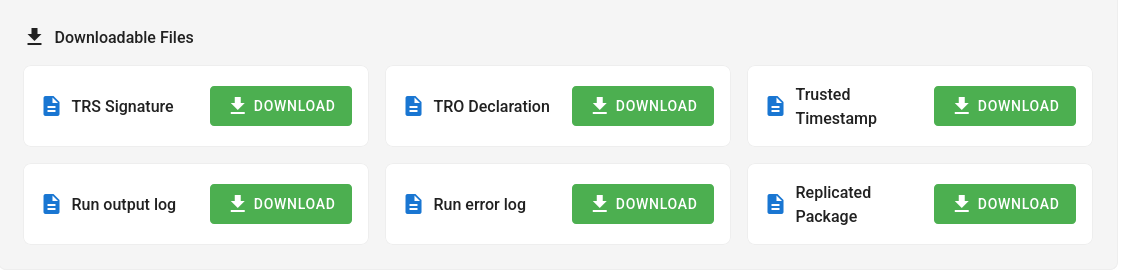
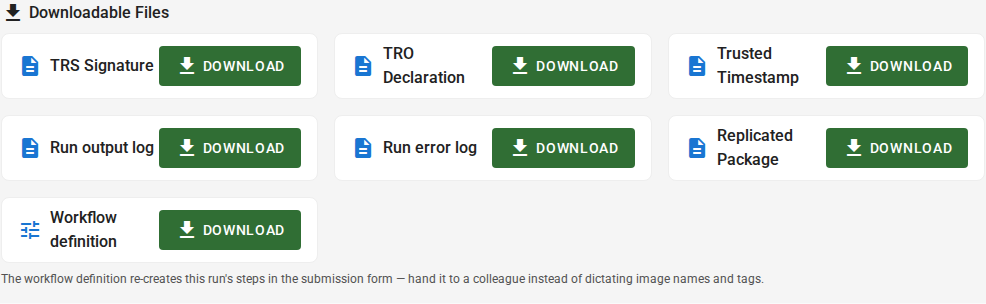
Updates due to recent changes. Generate images automatically

diff --git a/docs/faq.md b/docs/faq.md
@@ -58,9 +58,55 @@ You should inspect the `Run output log` and `Run error log` files to see what we
 
 You might want to consult the [debugging hints](debugging.md) for tips.
 
+## My job used to work, and now it runs out of memory
+
+SIVACOR now runs every submission on a machine created for that submission alone, with
+**8 cores and 30 GiB of RAM** (see [System Description](system.md)). Earlier in the pilot,
+submissions ran on a larger shared server, so an analysis that only just fitted before may
+now exceed the available memory.
+
+If your analysis genuinely needs more than this, please contact us — do not spend a long time
+trying to shrink it first.
+
+## My job failed saying it ran out of disk space
+
+The error looks like this:
+
+> Ran out of disk space: 4.7 GiB free on the workspace filesystem, below the 5.0 GiB floor.
+
+The machine running your submission has 60 GB of disk, and that space is shared between your
+replication package (including everything your code writes) and the software image it runs
+in. Large images consume a substantial part of it — the MATLAB / Dynare image alone is about
+15 GB.
+
+Things that help:
+
+- exclude large intermediate or raw data files with
+  [`.sivacorignore`](step0-prepare.md#excluding-files-from-final-package) — note this affects
+  the final package, not what your code writes while running
+- delete intermediate files in your own code once you no longer need them
+- check that your code is not writing very large log or temporary files unintentionally
+
+If your analysis legitimately needs more room, please contact us.
+
+## My job failed with "Submission abandoned"
+
+The message looks like one of these:
+
+> Submission abandoned: no sign of life for 0:31:07; the worker running it is presumed lost.
+
+> Submission abandoned: exceeded the maximum runtime of 7 days, 0:00:00; started at ...
+
+The first means the machine running your submission was lost. That is an infrastructure
+problem rather than a problem with your code — just submit the package again, and contact us
+if it keeps happening.
+
+The second means your run hit the 7 day limit. If your analysis genuinely needs longer,
+contact us before resubmitting.
+
 ## What are all these output files?
 
-SIVACOR produces six output files:
+SIVACOR produces six output files, plus a workflow definition:
 
 ![SIVACOR output files](images/sivacor-screenshot.png)
 
@@ -75,6 +121,11 @@ A few [TRACE-related](https://transparency-certified.github.io/) files are produ
 - A **trusted timestamp** file. This file contains a timestamp that is certified by a trusted time server, used in the signing process.
 
 These three files are also included in the `tro` folder inside the replication package.
+
+- A **workflow definition**, a small YAML file recording the software, versions and main
+  files this run used. It is not part of the signed package, and is not evidence of
+  anything — it is a convenience, so the same configuration can be re-created later by
+  importing it on the submission page. It never contains any secrets you supplied.
 
 ## What can I do with the TRO files? How can I check the package?
 
@@ -289,3 +340,13 @@ SIVACOR only temporarily retains any files that you upload. You can delete files
 SIVACOR runs on [Jetstream 2](https://jetstream-cloud.org/). If Jetstream 2 is down for maintenance, SIVACOR will be down as well. You can check the [Jetstream 2 status page](https://jetstream.status.io/) for any ongoing maintenance or issues.
 
 If JetStream 2 is operational, but SIVACOR appears down, please contact us via the button at the top of this page.
+
+## My submission has been "Waiting for a worker" for a long time
+
+SIVACOR starts a machine for each submission, which normally takes two to three minutes,
+followed by the download of the software image. If other users' submissions are occupying
+the machines available to the pilot, yours waits until one frees up.
+
+A wait of several minutes is normal, especially for MATLAB. If a submission stays in this
+state for much longer than that, please contact us and include the Job ID shown on the
+page — there is a copy button next to it.

diff --git a/docs/step3-monitoring.md b/docs/step3-monitoring.md
@@ -10,4 +10,49 @@ Every time you come back to the page, you will see the status of your job.
 
 ![Job running](images/sivacor-running-job.png)
 
-You will also be notified by email when your job starts, and when it ends. 
+You will also be notified by email when your job starts, and when it ends.
+
+## Waiting for a machine
+
+SIVACOR starts a machine for your submission alone, so there is normally a short wait
+before anything appears to happen. While that is going on, you will see a
+**Waiting for a worker** message.
+
+![Waiting for a worker](images/sivacor-waiting-for-worker.png)
+
+Starting the machine usually takes **2 to 3 minutes**. The software image then has to be
+downloaded onto it, which is quick for Stata and R, but can add a couple of minutes for the
+much larger MATLAB / Dynare image. So it is normal for several minutes to pass before the
+first output appears.
+
+At busy times, when other users' submissions are occupying the available machines, your
+submission may wait longer before it starts.
+
+:::{tip}
+
+You do not have to keep the page open. The page updates itself, and you can leave and come
+back to it — your submission keeps running, and you will be emailed when it ends.
+
+:::
+
+## If you already have a submission in progress
+
+If you try to submit while an earlier submission is still running, SIVACOR refuses the new
+one and tells you which submission is blocking it:
+
+> You already have a submission in progress ('...'). Please wait for it to finish, or
+> cancel it, before submitting a new one.
+
+The message includes a **Go to your submission in progress** link that takes you to the
+submission that is still running. From there you can either wait for it to finish, or use
+**Cancel Job** to stop it — once it is cancelled you can submit a new one.
+
+## If a job fails unexpectedly
+
+Occasionally the machine running a submission is lost. When that happens, SIVACOR marks the
+submission as failed with a message like:
+
+> Submission abandoned: no sign of life for 0:31:07; the worker running it is presumed lost.
+
+You will receive the usual failure email. This is an infrastructure problem, not a problem
+with your code: simply submit the package again. If it keeps happening, please contact us.

diff --git a/docs/system.md b/docs/system.md
@@ -4,22 +4,39 @@ SIVACOR operates through a series of Trusted Research Performances (TRPs) that e
 
 ## Hardware capabilities
 
+Every submission runs on its own virtual machine, created when your job starts and
+destroyed when it finishes. Your code is the only thing running on it, and nothing is
+carried over from one submission to the next.
+
+| Resource | Available to your submission |
+|----------|------------------------------|
+| Processor | 8 cores (AMD EPYC-Milan Processor) |
+| Memory | 30 GiB |
+| Disk | 60 GB |
+
+Your analysis is given the whole machine — SIVACOR does not place additional CPU or
+memory limits on the container.
+
 :::{warning}
 
-Coming.
+The 60 GB of disk must hold **both** your replication package (including everything your
+code writes) **and** the software image it runs in. Those images are large: the MATLAB /
+Dynare image alone is about 15 GB. If free space runs low, the run is stopped and you will
+see an error saying the submission ran out of disk space.
 
 :::
 
+### Limits
 
-:::{note}
+- **Run time.** A run is stopped after **7 days**.
+- **Sign of life.** A run that reports no activity for **30 minutes** is marked as failed,
+  on the assumption that the machine running it has been lost.
+- **Retention.** Submissions are deleted **14 days** after they are submitted.
+- **Uploads.** A single archive may be at most 5 GB, and each user may store up to 10 GB.
+- **One at a time.** You can have only one submission in progress at a time.
 
-SIVACOR is currently in a pilot phase. As such, the system is limited 
-
-- to running with a maximum of 28GB of RAM on an 8-core AMD EPYC-Milan Processor
-
-There is at present no runtime limit.
-
-:::
+At busy times, your submission may have to wait for a machine to become available before it
+starts. See [Monitoring Jobs](step3-monitoring.md).
 
 ## TRS: Trusted Research System
 

diff --git a/docs/step4-download.md b/docs/step4-download.md
@@ -6,9 +6,22 @@ Once the job is finished, you will see the following page:
 
 You can now download the `Replicated Package`, a ZIP file that contains your originally submitted materials, the output files generated by your code, and the TRACE-related files (TRO Declaration, TRS Signature, Trusted Timestamp) that prove that this job was run on SIVACOR. 
 
+You can also download a `Workflow definition` — a small YAML file describing the software,
+versions and main files this run used. It is not part of the signed package; it is there so
+you (or a colleague) can reproduce the same setup later by importing it on the submission
+page, instead of filling the form in by hand. See
+[Optional chained runs](step2-choosing-image.md#optional-chained-runs-steps). It is offered
+for failed runs too, which is useful when you want to fix your code and run exactly the same
+configuration again.
+
 ::::{warning}
 
-SIVACOR does not retain your results except for a very short period. If you start a new run, you immediately lose access to the previous results, which are then subject to deletion. If you want to retain any results, you **must** download them now.
+SIVACOR does not retain your results for long: a submission is **deleted 14 days after it was
+submitted**. If you want to keep any results, you **must** download them before then.
+
+Starting a new run does not delete the previous one, but the page only ever shows your most
+recent submission — so once you start another run, the earlier results are no longer
+reachable from the dashboard, and will be deleted when their 14 days are up.
 
 You can choose to not wait for the automated deletion jobs, and explicitly delete your results by clicking the `Delete & Run New Job` button on the job page.
 

diff --git a/docs/step2-choosing-image.md b/docs/step2-choosing-image.md
@@ -33,7 +33,18 @@ You can chain multiple runs together, by selecting the `+ ADD STEP` button. The 
 :::{admonition} Advanced configuration of steps
 :class: tip dropdown
 
-If you need to repeatedly run similar jobs on SIVACOR, you might want to create a `sivacor.yaml` file that specifies the steps and their configuration. 
+If you need to repeatedly run similar jobs on SIVACOR, you can describe the steps in a file
+and import it instead of filling in the form. Expand **Optional: Import workflow definition**
+at the top of the submission form, then choose or drag in a `YAML` or `JSON` file (any file
+name, up to 256 KB). The file is checked before anything is filled in, and you will be told
+which step is at fault if something is wrong — for example if an image or tag is not one of
+the [curated images](images.md).
+
+Importing replaces whatever is currently in the form, so you can always review and adjust
+the steps before running.
+
+A finished run offers the matching `Workflow definition` download, so the easiest way to get
+a valid file is to run once, download it, and reuse it afterwards.
 
 Expected configuration:
 
@@ -51,6 +62,18 @@ env_secrets:
   - key: API_TOKEN
     value: s3cret
 ```
+
+`image_name`, `image_tag` and `main_file` are required for every step;
+`network_isolation` and `env_secrets` are optional.
+
+:::{warning}
+
+Secrets imported from a file are placed in the form and sent with the submission, but they
+are never stored in your browser, and they are never included in a downloaded
+`Workflow definition`. If you share a workflow file that you wrote by hand, remember to
+remove any `env_secrets` from it first.
+
+:::
 
 :::
 

diff --git a/docs/intro.md b/docs/intro.md
@@ -21,12 +21,13 @@ SIVACOR allows researchers to work in their preferred environments until the las
 
 :::{note}
 
-SIVACOR is currently in a pilot phase. As such, the system is limited 
+SIVACOR is currently in a pilot phase. As such, the system is limited
 
 - to specific curated Docker images (see [Images](images.md) for details)
-- to running with a maximum of 28GB of RAM on an 8-core AMD EPYC-Milan Processor
+- to running each submission on a machine with 8 cores and 30 GiB of RAM (an AMD EPYC-Milan Processor), with 60 GB of disk shared between your files and the software image
+- to a maximum run time of 7 days
 
-There is at present no runtime limit.
+Results are deleted 14 days after submission. See [System Description](system.md) for details.
 
 :::
 

diff --git a/docs/step1-upload.md b/docs/step1-upload.md
@@ -26,6 +26,15 @@ Once logged in, you will see the upload page.
 
 ![Upload page](images/sivacor-upload-page.png)
 
-Upload the replication package (`ZIP` or `tar.gz` files). 
+Upload the replication package (`ZIP` or `tar.gz` files). You can either click to choose a
+file, or drag it onto the upload area. A single archive may be at most **5 GB**, and each
+user may store up to **10 GB** on SIVACOR at any one time.
 
 ![Successful upload](images/sivacor-upload-successful.png)
+
+:::{tip}
+
+If you picked the wrong file, click `Delete Uploaded File` and upload the correct one. The
+upload area reappears once the file has been removed.
+
+:::
